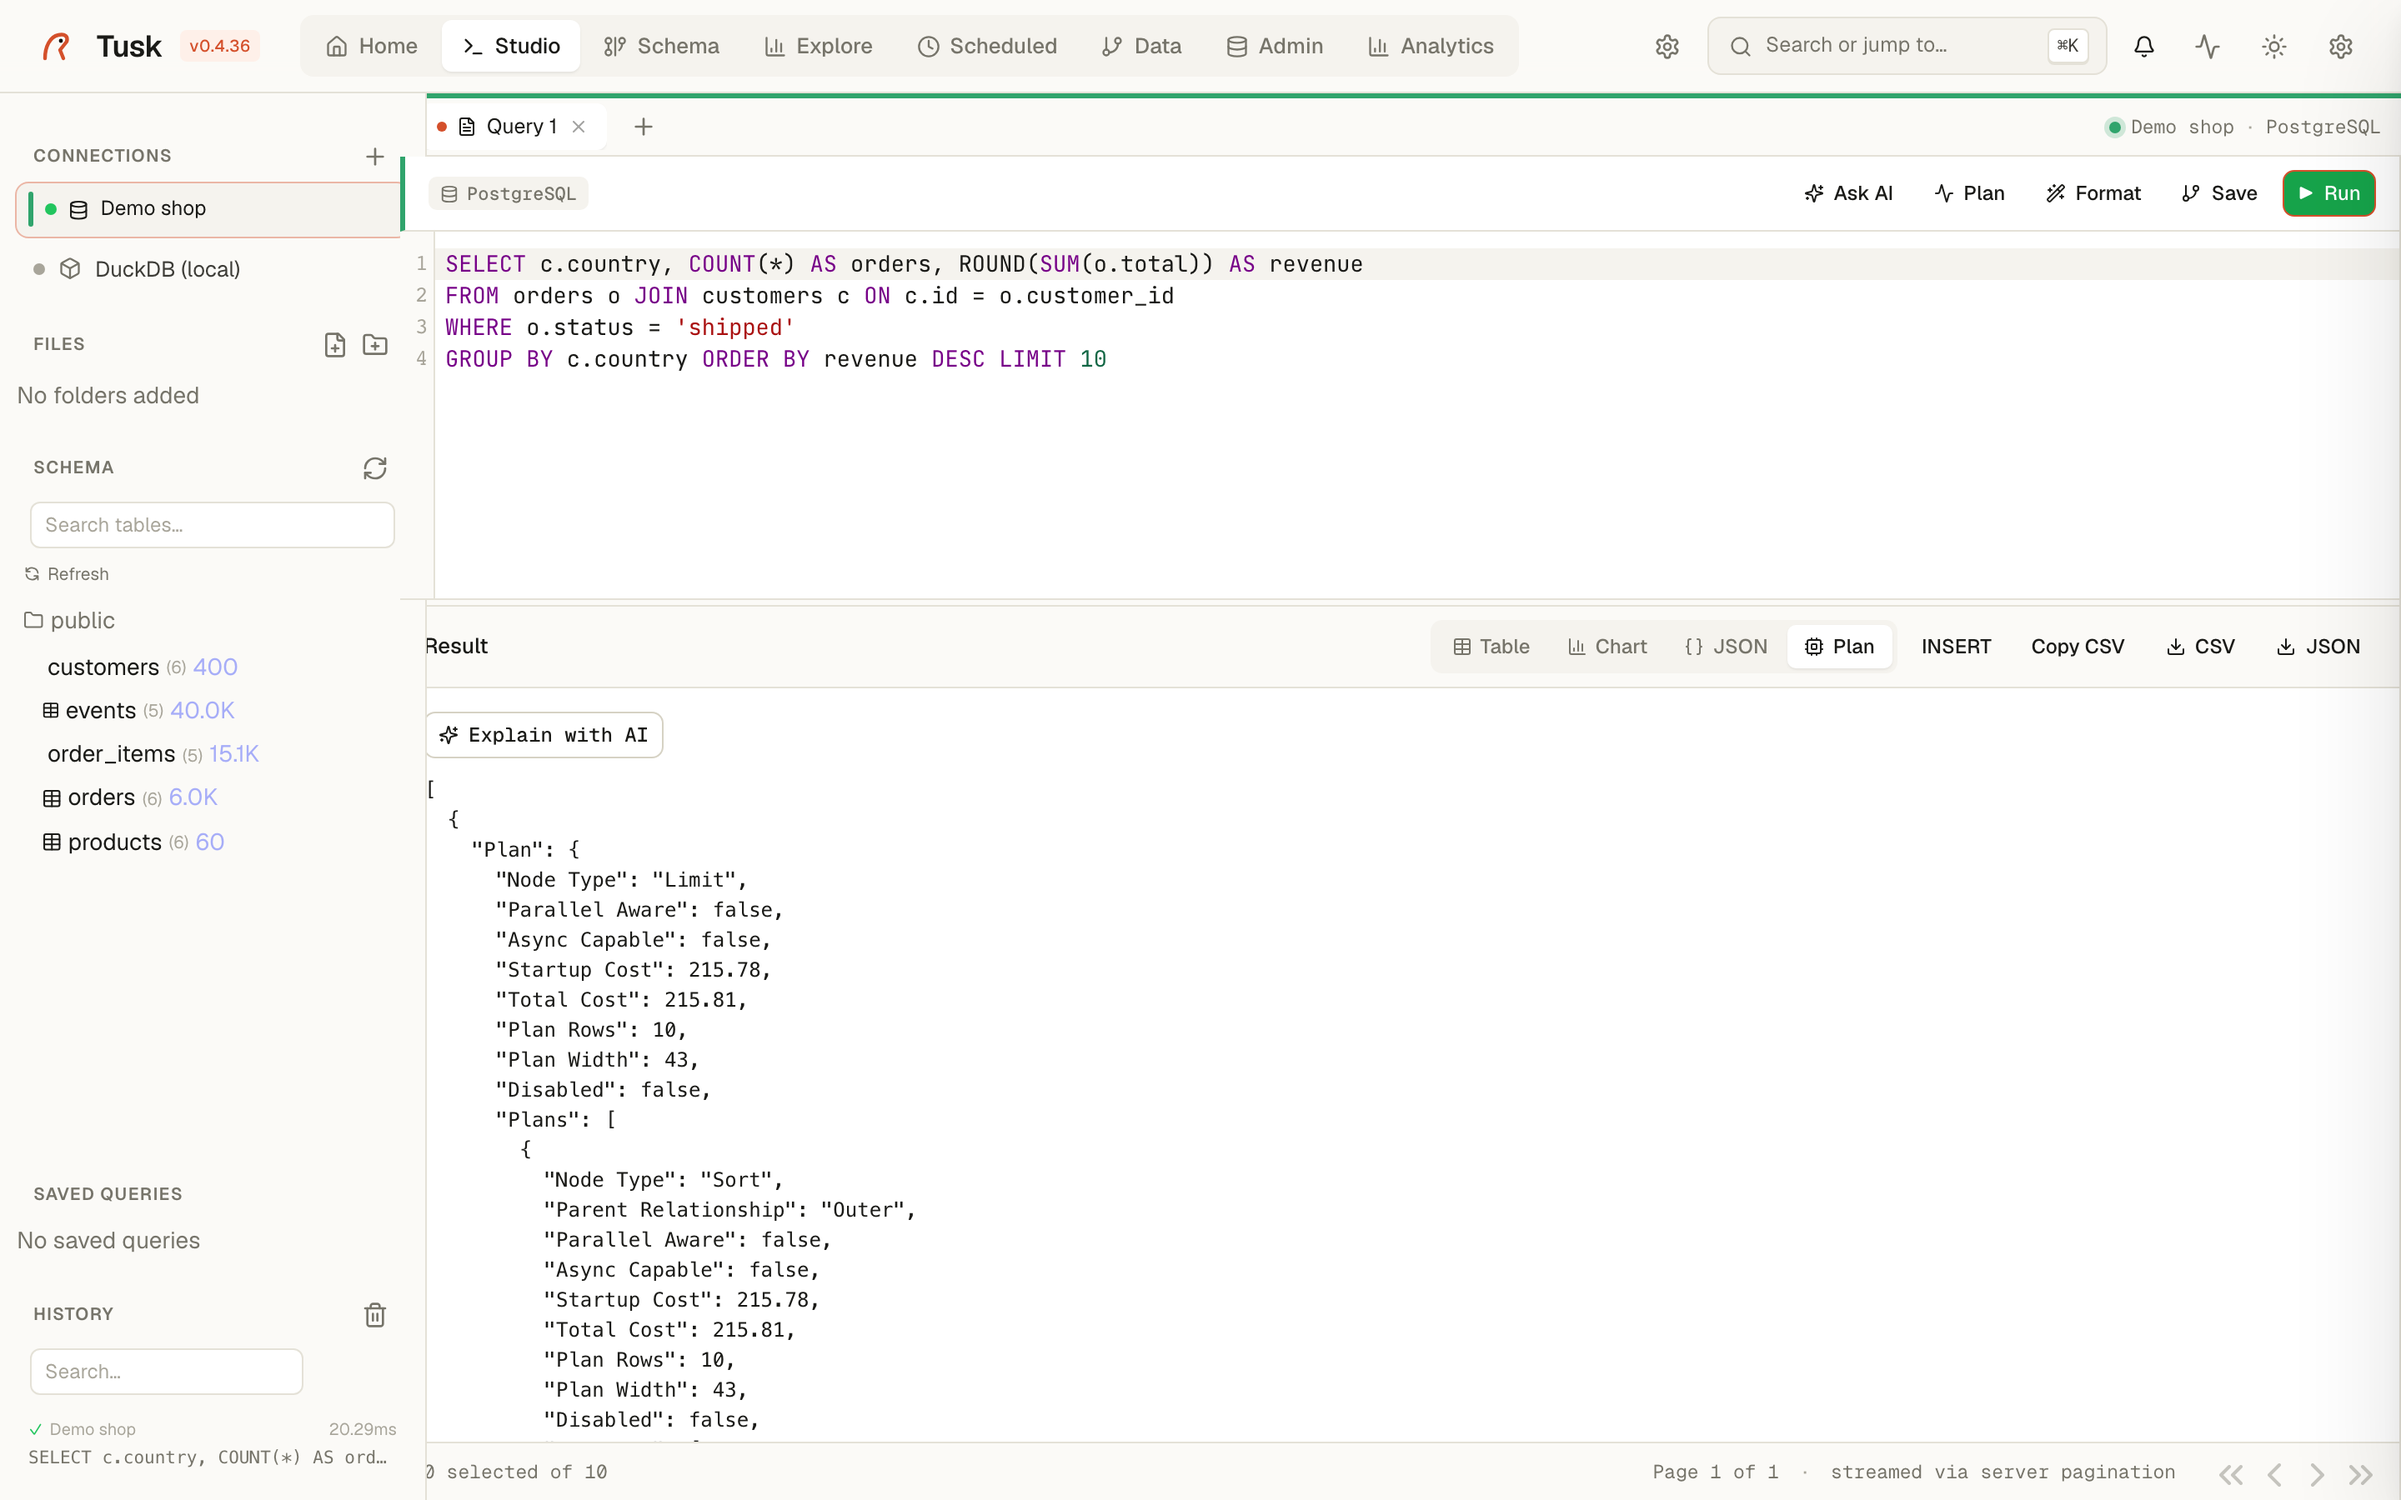
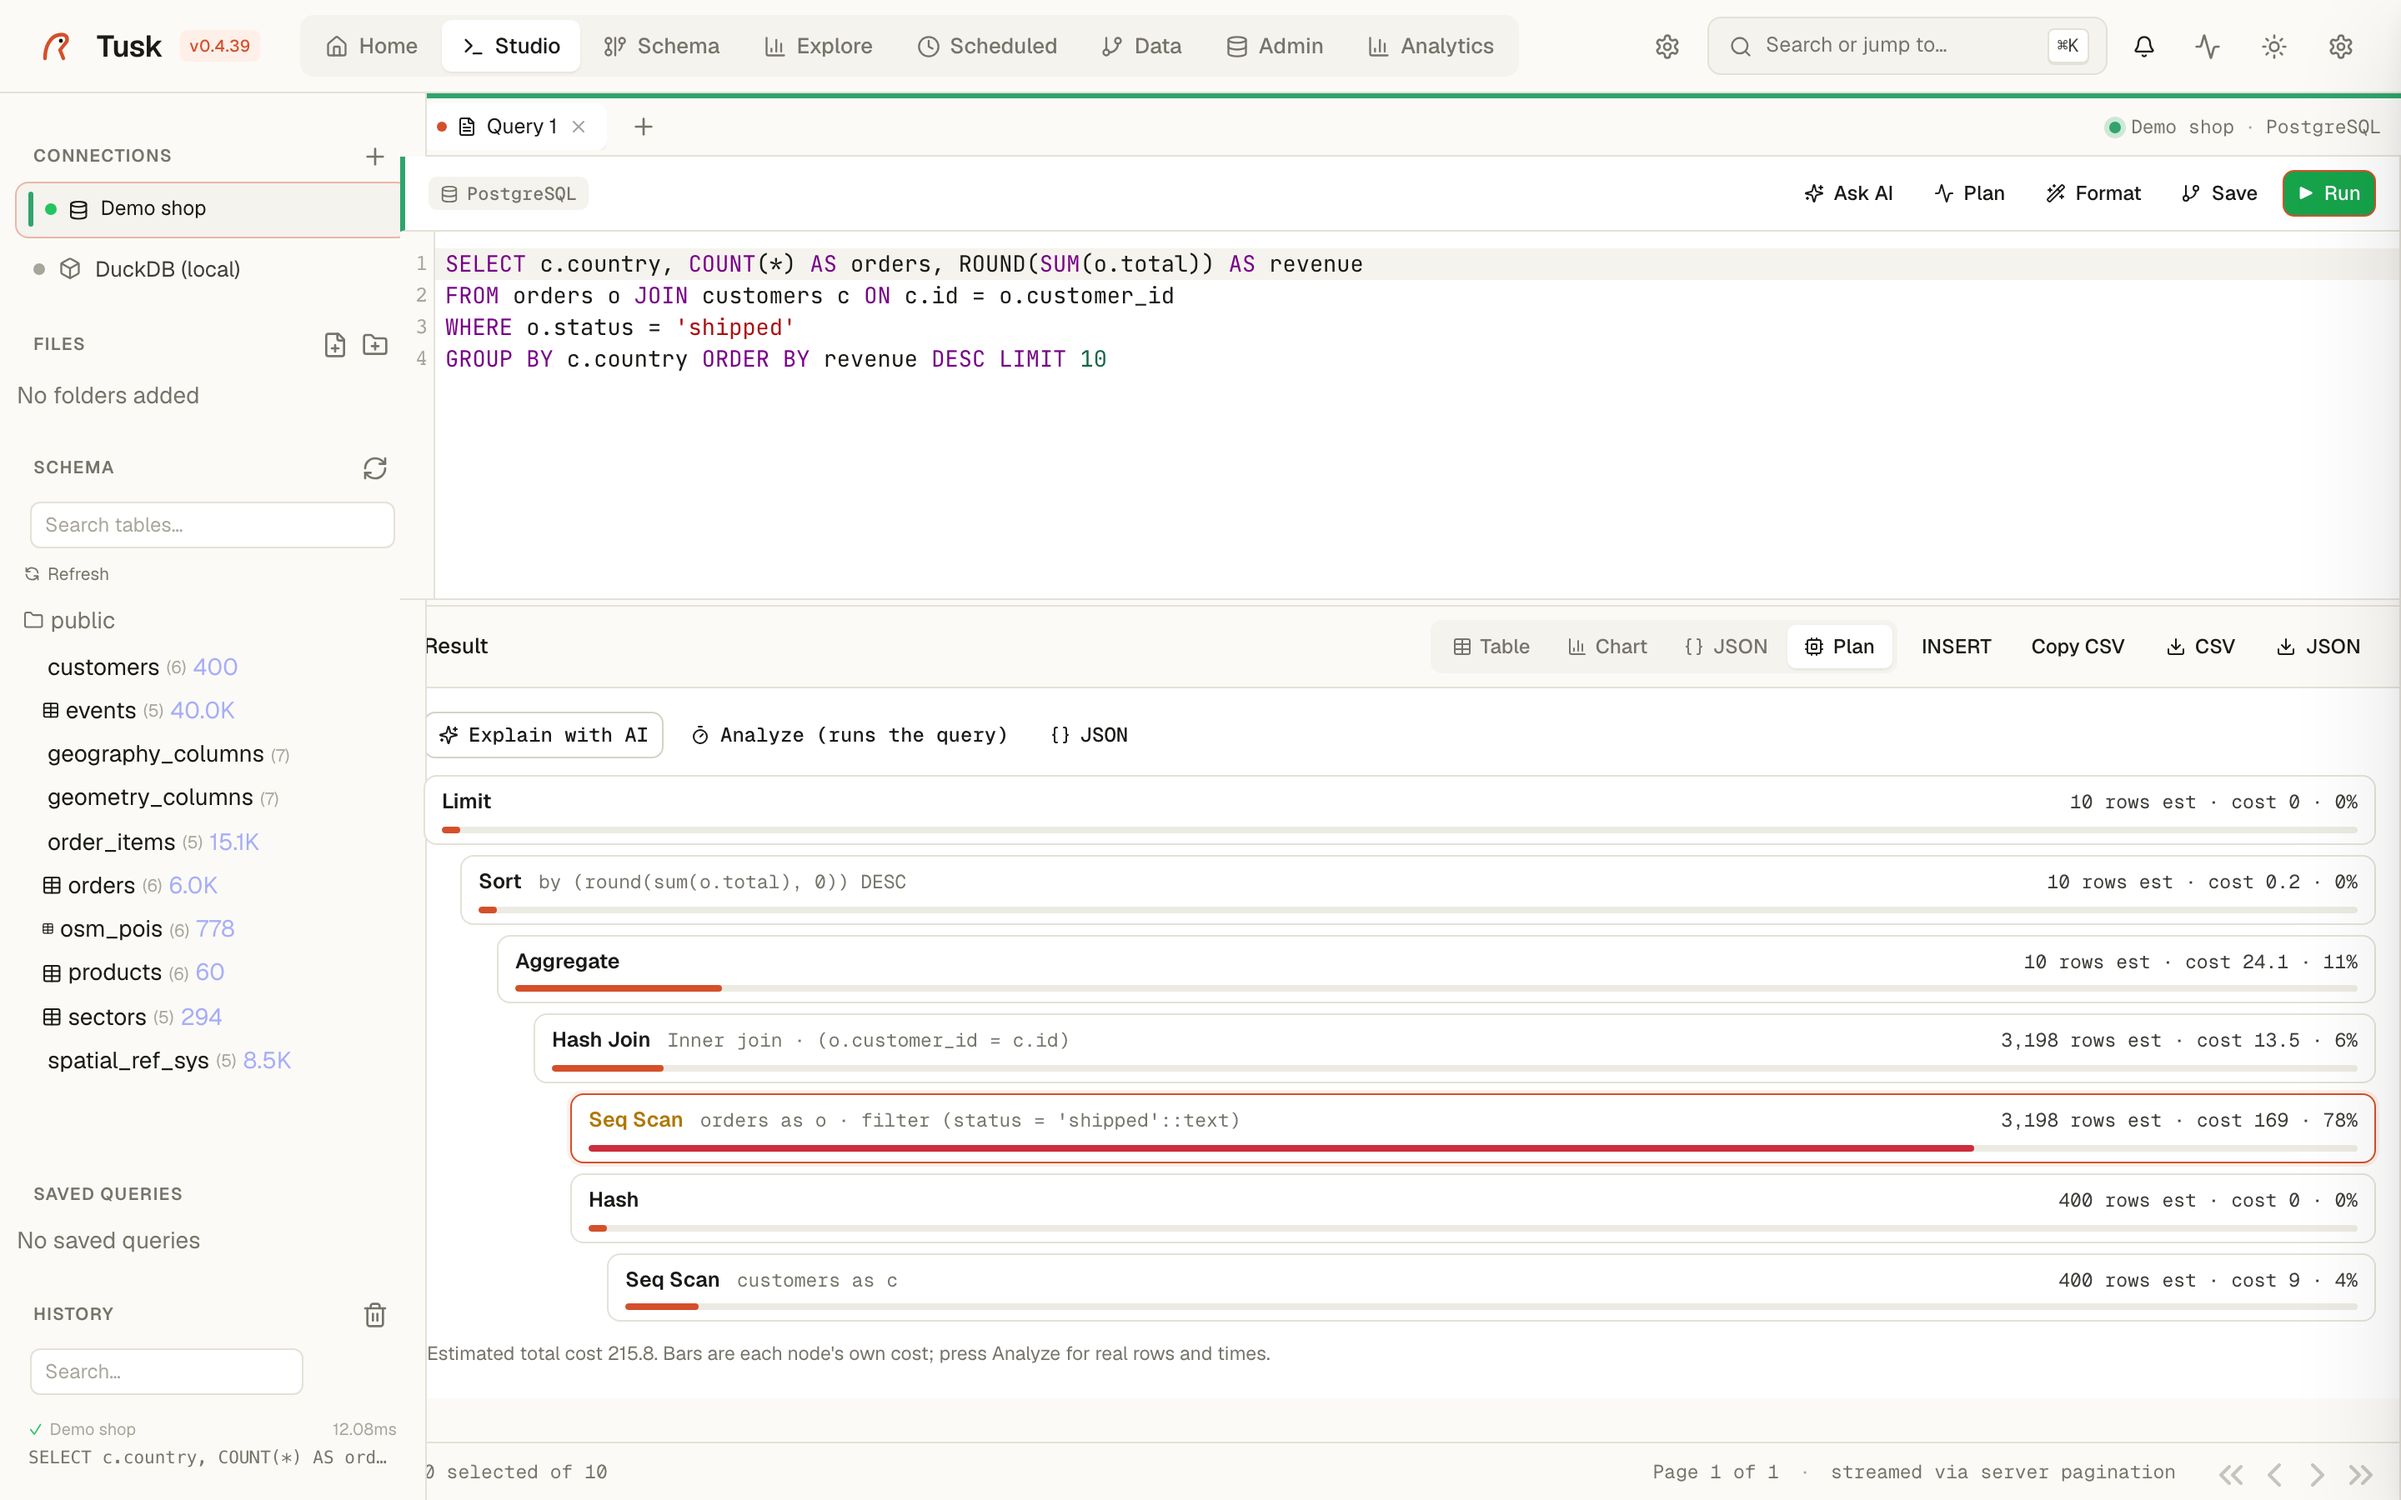
v0.4.46: graphical EXPLAIN
- Plan tab renders the EXPLAIN JSON as a tree of cards: node type,
  relation/index/condition, rows (estimated vs actual), the node's own
  cost or time and its share of the total (children excluded), hottest
  node highlighted, big sequential scans flagged. Analyze button runs the
  query for real timings and marks misestimates; JSON toggle keeps the
  raw plan; Explain with AI unchanged. Docs + screenshot.

Claude-Session: https://claude.ai/code/session_01AKfkpMNLsLktua2FaJbB3V

diff --git a/src/tusk/studio/static/studio-views.js b/src/tusk/studio/static/studio-views.js
@@ -32,7 +32,7 @@ window.setResultView = async function(view) {
     }
 };
 
-window.loadExplainPlan = async function() {
+window.loadExplainPlan = async function(analyze = false) {
     const el = document.getElementById('results-plan-content');
     if (!el) return;
     if (!window.currentConnection || !window.currentSql) {
@@ -51,7 +51,7 @@ window.loadExplainPlan = async function() {
             body: JSON.stringify({
                 connection_id: window.currentConnection.id,
                 sql: window.currentSql,
-                analyze: false,
+                analyze: analyze,
             }),
         });
         const data = await res.json();
@@ -67,13 +67,22 @@ window.loadExplainPlan = async function() {
         el.innerHTML = '';
         const bar = document.createElement('div');
         bar.className = 'plan-actions';
-        bar.innerHTML = `<button class="btn btn-sm" onclick="explainPlanWithAI()" title="Ask the AI Copilot where the time goes and what to do about it">
-                            <i data-lucide="sparkles"></i>Explain with AI</button>
+        bar.innerHTML = `<div class="flex aic gap-2 flex-wrap">
+                            <button class="btn btn-sm" onclick="explainPlanWithAI()" title="Ask the AI Copilot where the time goes and what to do about it">
+                                <i data-lucide="sparkles"></i>Explain with AI</button>
+                            <button class="btn btn-sm btn-ghost" onclick="loadExplainPlan(true)" title="EXPLAIN ANALYZE: runs the query and shows real rows and times">
+                                <i data-lucide="timer"></i>Analyze (runs the query)</button>
+                            <button class="btn btn-sm btn-ghost" onclick="const p = document.getElementById('plan-json'); p.hidden = !p.hidden;">
+                                <i data-lucide="braces"></i>JSON</button>
+                         </div>
                          <div id="plan-insight" class="plan-insight" hidden></div>`;
+        el.appendChild(bar);
+        el.appendChild(renderPlanTree(data.plan));
         const pre = document.createElement('pre');
         pre.className = 'plan-json';
+        pre.id = 'plan-json';
+        pre.hidden = true;
         pre.textContent = JSON.stringify(data.plan, null, 2);
-        el.appendChild(bar);
         el.appendChild(pre);
         if (window.lucide) lucide.createIcons();
     } catch (e) {
@@ -156,4 +165,70 @@ window.formatCurrentQuery = function() {
     });
     out = out.replace(/^\n/, '').replace(/\n+/g, '\n').replace(/,\s*/g, ', ');
     editor.dispatch({changes: {from: 0, to: editor.state.doc.length, insert: out}});
+};
+
+// ─── Graphical plan tree ─────────────────────────────────────────────
+// The EXPLAIN JSON as a tree of cards: node type, what it touches, rows
+// (estimated vs actual), cost or time, and a bar with the node's own share
+// of the total (exclusive of its children). The costliest node is marked.
+window.renderPlanTree = function(plan) {
+    const root = Array.isArray(plan) ? plan[0]?.Plan : (plan?.Plan || plan);
+    const wrap = document.createElement('div');
+    wrap.className = 'plan-tree';
+    if (!root) { wrap.textContent = 'No plan.'; return wrap; }
+    const analyzed = root['Actual Total Time'] !== undefined;
+    // Exclusive metric per node: time (ANALYZE) or cost (estimate).
+    const nodes = [];
+    const metric = (n) => analyzed ? (n['Actual Total Time'] || 0) * (n['Actual Loops'] || 1) : (n['Total Cost'] || 0);
+    const walk = (n, depth, parent) => {
+        const kids = n.Plans || [];
+        const own = Math.max(0, metric(n) - kids.reduce((a, k) => a + metric(k), 0));
+        const rec = { n, depth, own, kids: [] };
+        nodes.push(rec);
+        for (const k of kids) rec.kids.push(walk(k, depth + 1, rec));
+        return rec;
+    };
+    const tree = walk(root, 0, null);
+    const total = Math.max(1e-9, metric(root));
+    const hottest = nodes.reduce((a, b) => (b.own > a.own ? b : a), nodes[0]);
+    const fmt = (v) => v >= 1000 ? Math.round(v).toLocaleString() : (Math.round(v * 10) / 10).toString();
+    const label = (n) => {
+        const parts = [];
+        if (n['Relation Name']) parts.push(n['Relation Name'] + (n.Alias && n.Alias !== n['Relation Name'] ? ` as ${n.Alias}` : ''));
+        if (n['Index Name']) parts.push('using ' + n['Index Name']);
+        if (n['Join Type']) parts.push(n['Join Type'] + ' join');
+        if (n['Hash Cond']) parts.push(n['Hash Cond']);
+        if (n['Index Cond']) parts.push(n['Index Cond']);
+        if (n['Filter']) parts.push('filter ' + n['Filter']);
+        if (n['Sort Key']) parts.push('by ' + [].concat(n['Sort Key']).join(', '));
+        return parts.join(' · ');
+    };
+    const render = (rec) => {
+        const n = rec.n;
+        const pct = 100 * rec.own / total;
+        const card = document.createElement('div');
+        card.className = 'plan-node' + (rec === hottest && pct > 15 ? ' hot' : '') + (n['Node Type'] === 'Seq Scan' && (n['Plan Rows'] || 0) > 1000 ? ' warn' : '');
+        card.style.marginLeft = (rec.depth * 22) + 'px';
+        const rows = analyzed
+            ? `${fmt(n['Actual Rows'] || 0)} rows${n['Plan Rows'] !== undefined && Math.abs((n['Actual Rows'] || 0) - n['Plan Rows']) > Math.max(10, n['Plan Rows'] * 0.5) ? ` <span class="plan-mis" title="planner estimated ${fmt(n['Plan Rows'])}">est ${fmt(n['Plan Rows'])}</span>` : ''}`
+            : `${fmt(n['Plan Rows'] || 0)} rows est`;
+        const own = analyzed ? `${fmt(rec.own)} ms` : `cost ${fmt(rec.own)}`;
+        card.innerHTML = `
+            <div class="plan-node-head">
+                <span class="plan-node-type">${tuskEscapeHtml(n['Node Type'] || '?')}</span>
+                <span class="plan-node-label">${tuskEscapeHtml(label(n))}</span>
+                <span class="plan-node-nums">${rows} · ${own} · ${pct.toFixed(0)}%</span>
+            </div>
+            <div class="plan-bar"><div class="plan-bar-fill" style="width:${Math.max(1, pct).toFixed(1)}%"></div></div>`;
+        wrap.appendChild(card);
+        for (const k of rec.kids) render(k);
+    };
+    render(tree);
+    const foot = document.createElement('div');
+    foot.className = 'plan-foot';
+    foot.textContent = analyzed
+        ? `Total ${fmt(metric(root))} ms · planning ${fmt(plan[0]?.['Planning Time'] || 0)} ms · execution ${fmt(plan[0]?.['Execution Time'] || 0)} ms. Bars are each node's own time.`
+        : `Estimated total cost ${fmt(metric(root))}. Bars are each node's own cost; press Analyze for real rows and times.`;
+    wrap.appendChild(foot);
+    return wrap;
 };

diff --git a/src/tusk/studio/static/studio-redesign.css b/src/tusk/studio/static/studio-redesign.css
@@ -81,6 +81,19 @@
 .plan-insight-title{font-size:11px;font-weight:600;letter-spacing:.06em;text-transform:uppercase;color:var(--fg-3);margin:8px 0 4px}
 .plan-insight ul,.plan-insight ol{margin:0;padding-left:18px}
 .plan-json{margin:0;white-space:pre-wrap;font-size:12px}
+.plan-tree{display:flex;flex-direction:column;gap:6px;font-family:var(--font-ui);white-space:normal}
+.plan-node{border:1px solid var(--border);border-radius:8px;background:var(--surface);padding:6px 10px;position:relative}
+.plan-node.hot{border-color:var(--brand);box-shadow:0 0 0 2px var(--brand-soft)}
+.plan-node.warn .plan-node-type{color:var(--accent-amber)}
+.plan-node-head{display:flex;align-items:baseline;gap:10px;font-size:12.5px}
+.plan-node-type{font-weight:600;white-space:nowrap}
+.plan-node-label{color:var(--fg-3);font-family:var(--font-mono);font-size:11.5px;overflow:hidden;text-overflow:ellipsis;white-space:nowrap;flex:1;min-width:0}
+.plan-node-nums{color:var(--fg-2);font-family:var(--font-mono);font-size:11.5px;white-space:nowrap}
+.plan-mis{color:var(--accent-amber)}
+.plan-bar{height:4px;background:var(--surface-3);border-radius:2px;margin-top:5px;overflow:hidden}
+.plan-bar-fill{height:100%;background:var(--brand);border-radius:2px}
+.plan-node.hot .plan-bar-fill{background:var(--red)}
+.plan-foot{font-size:11.5px;color:var(--fg-3);padding:4px 2px}
 .qtab{display:flex;align-items:center;gap:6px;padding:6px 10px;font-size:12.5px;color:var(--fg-3);cursor:pointer;border-radius:6px;height:28px;flex-shrink:0;background:transparent;border:none;font-family:inherit}
 .qtab:hover{background:var(--surface-2)}
 .qtab.active{background:var(--surface);color:var(--fg);box-shadow:var(--shadow-sm)}

diff --git a/specs/roadmap/now.md b/specs/roadmap/now.md
@@ -103,7 +103,16 @@ out; the product does not limp without it.
   clients (the territorial platform) consume Tusk layers directly.
 - "Aggregate to H3 resolution N" on the Explore map when `h3-pg` exists.
 
-## 0.5.0 — when Apple approves
+## 0.4.45 / 0.4.46 — pgAdmin-grade details (shipped 2026-09-06)
+
+- Copilot SQL is EXPLAIN-checked before it is shown, with one correction
+  round on "does not exist" errors; verdict on the card.
+- Copy vector-tiles URL on saved queries; "Open in map" on Spatial cards;
+  Studio deep links (`?connection&sql&map=1`).
+- Plan tab draws the EXPLAIN tree (own cost/time bars, hottest node,
+  Analyze, JSON toggle).
+
+## 0.5.0 — when ready (~2 weeks)
 
 Desktop packaging (own plan) plus a hygiene cut, no new features:
 
@@ -122,7 +131,10 @@ in Analytics. Any of these comes back only when a named user asks for it.
 
 ## Open nits (fold into whichever release touches the area)
 
-- Horizontal scroll appears after confirmation modals in BI.
+- Horizontal scroll appears after confirmation modals in BI, and the Studio
+  main pane can be scrolled sideways when the caret of a long one-line SQL
+  is scrolled into view (seen in a Playwright run; `.studio-main` is
+  `overflow:hidden` but programmatic scrollIntoView still moves it).
 - Copilot with a 9B model invents joins when the schema is thin
   (`orders.product_id` in the demo); geo grounding will not fix that one —
   a bigger model or a "verify columns" post-check would.

diff --git a/docs/features/studio.md b/docs/features/studio.md
@@ -130,6 +130,16 @@ default) lives in **Settings → Studio**, which keeps an accidental click on
 a 50M-row table cheap. Double-click still inserts the table name at the
 cursor; **INSERT** still opens an insert template.
 
+## Read a plan
+
+The **Plan** tab draws `EXPLAIN` as a tree of cards: node type, the table
+or index and the condition, estimated rows and the node's own cost, with a
+bar for its share of the whole plan (children excluded). The costliest
+node is highlighted; a sequential scan over many rows is flagged.
+**Analyze** runs the query and adds real rows and times, marking the
+nodes where the planner's estimate was far off. **JSON** shows the raw
+plan.
+
 ## Explain a plan with AI
 
 ![Plan tab with the AI insight.](../screenshots/studio-plan.png){ .screenshot }

diff --git a/CHANGELOG.md b/CHANGELOG.md
@@ -2,6 +2,15 @@
 
 All notable changes to Tusk will be documented in this file.
 
+## [0.4.46] - 2026-09-06 — Graphical EXPLAIN
+
+- **Plan tab draws the plan.** Each node is a card (type, relation/index,
+  join or filter condition, rows, own cost) with a bar for its share of the
+  total, exclusive of its children; the costliest node is highlighted,
+  sequential scans on big row counts flagged. **Analyze** runs the query
+  for real rows and times and marks planner misestimates; **JSON** toggles
+  the raw plan. *Explain with AI* stays.
+
 ## [0.4.45] - 2026-09-06 — Copilot SQL checked against the database; geo shortcuts
 
 - **Copilot SQL is EXPLAIN-checked before you see it.** A dry run (never
